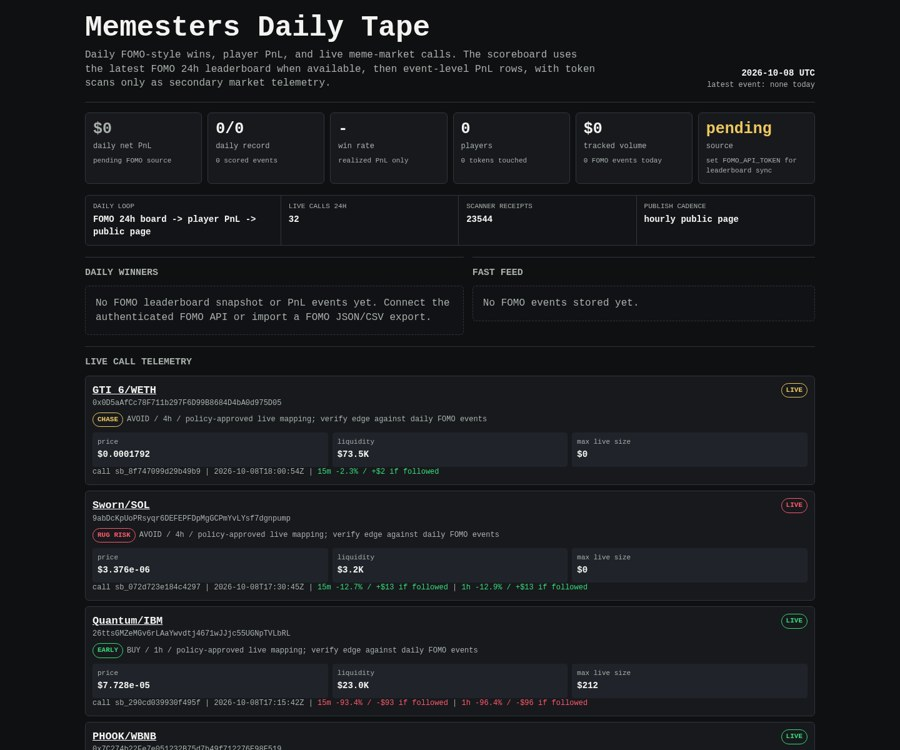
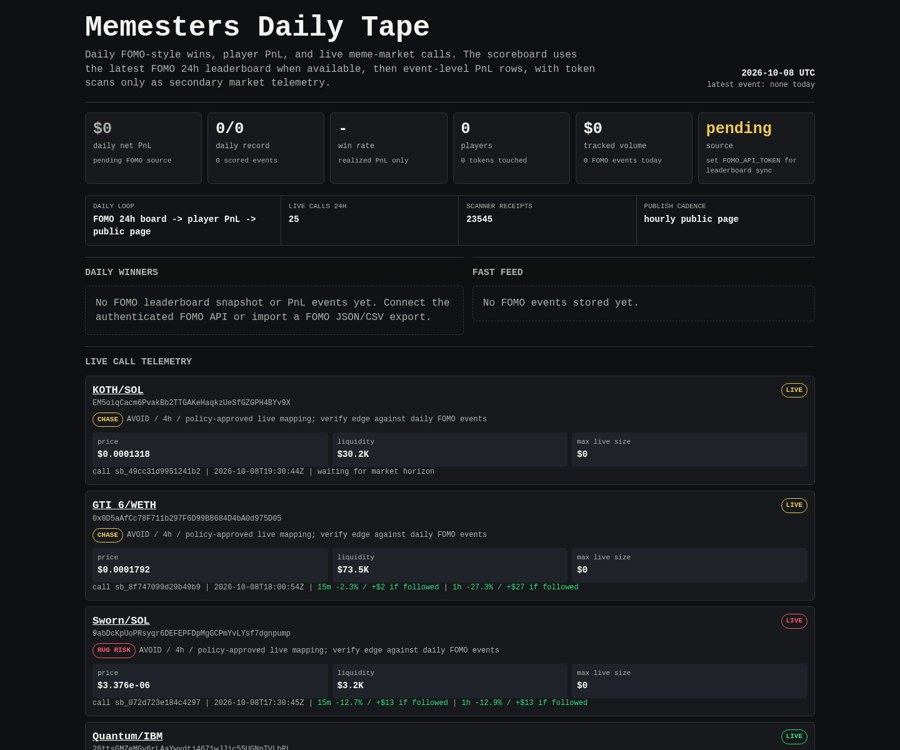
Update Memesters scoreboard

diff --git a/memesters/index.html b/memesters/index.html
@@ -149,8 +149,8 @@
 
     <div class="rail" aria-label="live operating loop">
       <div><span>daily loop</span><b>FOMO 24h board -> player PnL -> public page</b></div>
-      <div><span>live calls 24h</span><b>32</b></div>
-      <div><span>scanner receipts</span><b>23544</b></div>
+      <div><span>live calls 24h</span><b>25</b></div>
+      <div><span>scanner receipts</span><b>23545</b></div>
       <div><span>publish cadence</span><b>hourly public page</b></div>
     </div>
 
@@ -171,6 +171,27 @@
     <article class="receipt">
       <div class="receipt-head">
         <div>
+          <div class="pair"><a href="https://dexscreener.com/solana/brtyvf8crzfbtvmylvndbt6jvg7djzrb3duttggeomge">KOTH/SOL</a></div>
+          <div class="addr">EM5oiqCacm6PvakBb2TTGAKeHaqkzUeSfGZGPH4BYv9X</div>
+          <div class="addr policy-line">
+            <span class="badge chase">CHASE</span>
+            <span>AVOID / 4h / policy-approved live mapping; verify edge against daily FOMO events</span>
+          </div>
+        </div>
+        <span class="badge chase">LIVE</span>
+      </div>
+      <div class="receipt-grid">
+        <div class="kv"><span>price</span><b>$0.0001318</b></div>
+        <div class="kv"><span>liquidity</span><b>$30.2K</b></div>
+        <div class="kv"><span>max live size</span><b>$0</b></div>
+      </div>
+      <div class="outcomes">call sb_49cc31d9951241b2 | 2026-10-08T19:30:44Z | waiting for market horizon</div>
+    </article>
+    
+
+    <article class="receipt">
+      <div class="receipt-head">
+        <div>
           <div class="pair"><a href="https://dexscreener.com/robinhood/0xbfb46b2259bbbaea072b314821cebae024b3e68a820aec9b077ff6dcdcf093d5">GTI 6/WETH</a></div>
           <div class="addr">0x0D5aAfCc78F711b297F6D99B8684D4bA0d975D05</div>
           <div class="addr policy-line">
@@ -185,7 +206,7 @@
         <div class="kv"><span>liquidity</span><b>$73.5K</b></div>
         <div class="kv"><span>max live size</span><b>$0</b></div>
       </div>
-      <div class="outcomes">call sb_8f747099d29b49b9 | 2026-10-08T18:00:54Z | <span class="positive">15m -2.3% / +$2 if followed</span></div>
+      <div class="outcomes">call sb_8f747099d29b49b9 | 2026-10-08T18:00:54Z | <span class="positive">15m -2.3% / +$2 if followed</span> | <span class="positive">1h -27.3% / +$27 if followed</span></div>
     </article>
     
 
@@ -248,7 +269,7 @@
         <div class="kv"><span>liquidity</span><b>$16.6K</b></div>
         <div class="kv"><span>max live size</span><b>$25</b></div>
       </div>
-      <div class="outcomes">call sb_1f5ed040bc194fea | 2026-10-08T15:00:44Z | <span class="negative">15m -6.1% / -$6 if followed</span> | <span class="negative">1h -11.5% / -$11 if followed</span></div>
+      <div class="outcomes">call sb_1f5ed040bc194fea | 2026-10-08T15:00:44Z | <span class="negative">15m -6.1% / -$6 if followed</span> | <span class="negative">1h -11.5% / -$11 if followed</span> | <span class="negative">4h -11.5% / -$11 if followed</span></div>
     </article>
     
 
@@ -269,7 +290,7 @@
         <div class="kv"><span>liquidity</span><b>$63.5K</b></div>
         <div class="kv"><span>max live size</span><b>$0</b></div>
       </div>
-      <div class="outcomes">call sb_ff85cf6786a34386 | 2026-10-08T15:00:44Z | <span class="positive">15m -77.4% / +$77 if followed</span> | <span class="positive">1h -43.4% / +$43 if followed</span></div>
+      <div class="outcomes">call sb_ff85cf6786a34386 | 2026-10-08T15:00:44Z | <span class="positive">15m -77.4% / +$77 if followed</span> | <span class="positive">1h -43.4% / +$43 if followed</span> | <span class="positive">4h -72.5% / +$72 if followed</span></div>
     </article>
     
 
@@ -354,27 +375,6 @@
         <div class="kv"><span>max live size</span><b>$0</b></div>
       </div>
       <div class="outcomes">call sb_68f7aeaa0bcd46ea | 2026-10-08T11:15:35Z | <span class="positive">15m -21.4% / +$21 if followed</span> | <span class="negative">1h +0.6% / -$1 if followed</span> | <span class="positive">4h -39.1% / +$39 if followed</span></div>
-    </article>
-    
-
-    <article class="receipt">
-      <div class="receipt-head">
-        <div>
-          <div class="pair"><a href="https://dexscreener.com/robinhood/0xb7a5a496940cccadd7e7e8a2ba307555f1ee8e6581a4b671b08d2694178d087c">Chudjak/WOJAK</a></div>
-          <div class="addr">0x63758166e7f36F2E68A15ef2A1d8A6D44De42EfD</div>
-          <div class="addr policy-line">
-            <span class="badge early">EARLY</span>
-            <span>BUY / 1h / policy-approved live mapping; verify edge against daily FOMO events</span>
-          </div>
-        </div>
-        <span class="badge early">LIVE</span>
-      </div>
-      <div class="receipt-grid">
-        <div class="kv"><span>price</span><b>$8.908e-06</b></div>
-        <div class="kv"><span>liquidity</span><b>$8.5K</b></div>
-        <div class="kv"><span>max live size</span><b>$25</b></div>
-      </div>
-      <div class="outcomes">call sb_be15b23a1c4a4124 | 2026-10-08T11:15:35Z | <span class="negative">15m -3.4% / -$3 if followed</span> | <span class="negative">1h -24.4% / -$24 if followed</span> | <span class="positive">4h +348.2% / +$348 if followed</span></div>
     </article>
     
     </section>
